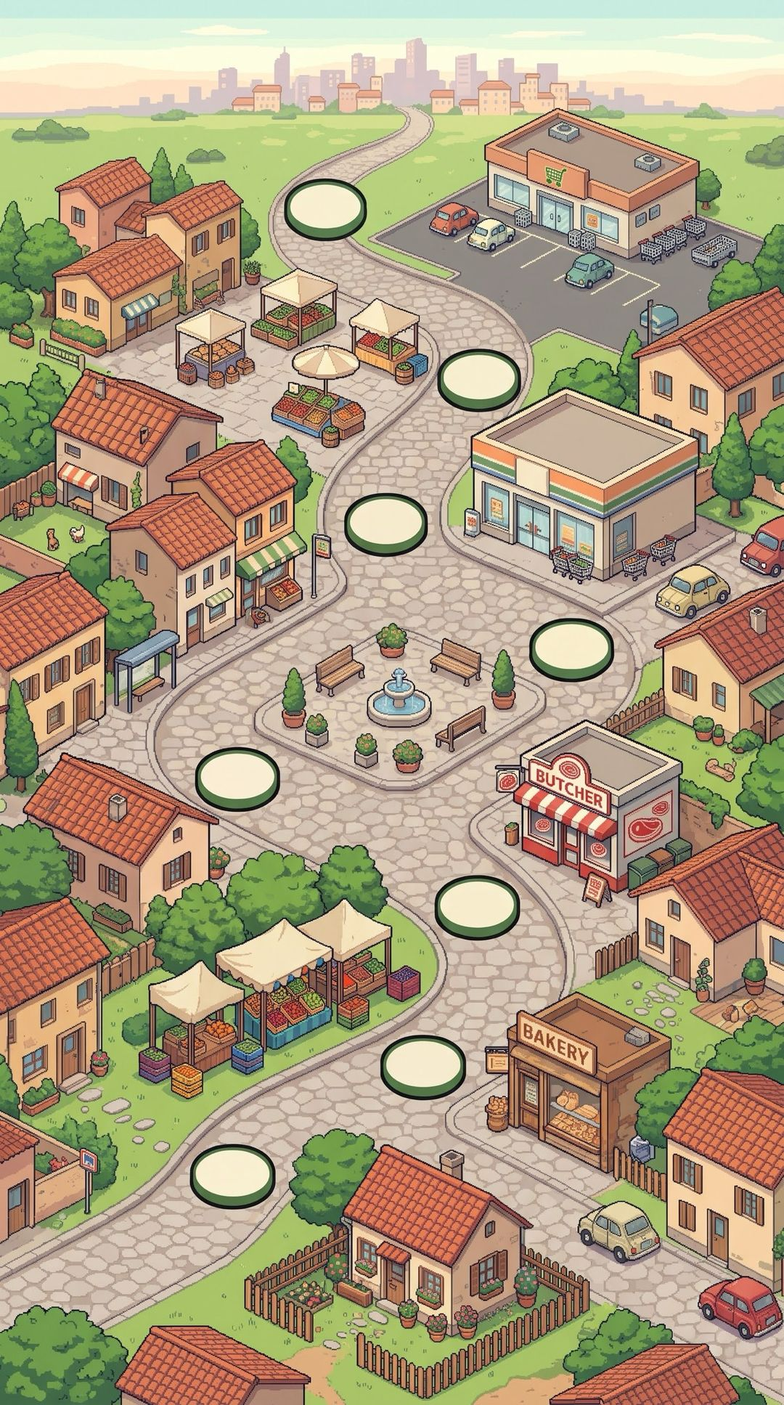
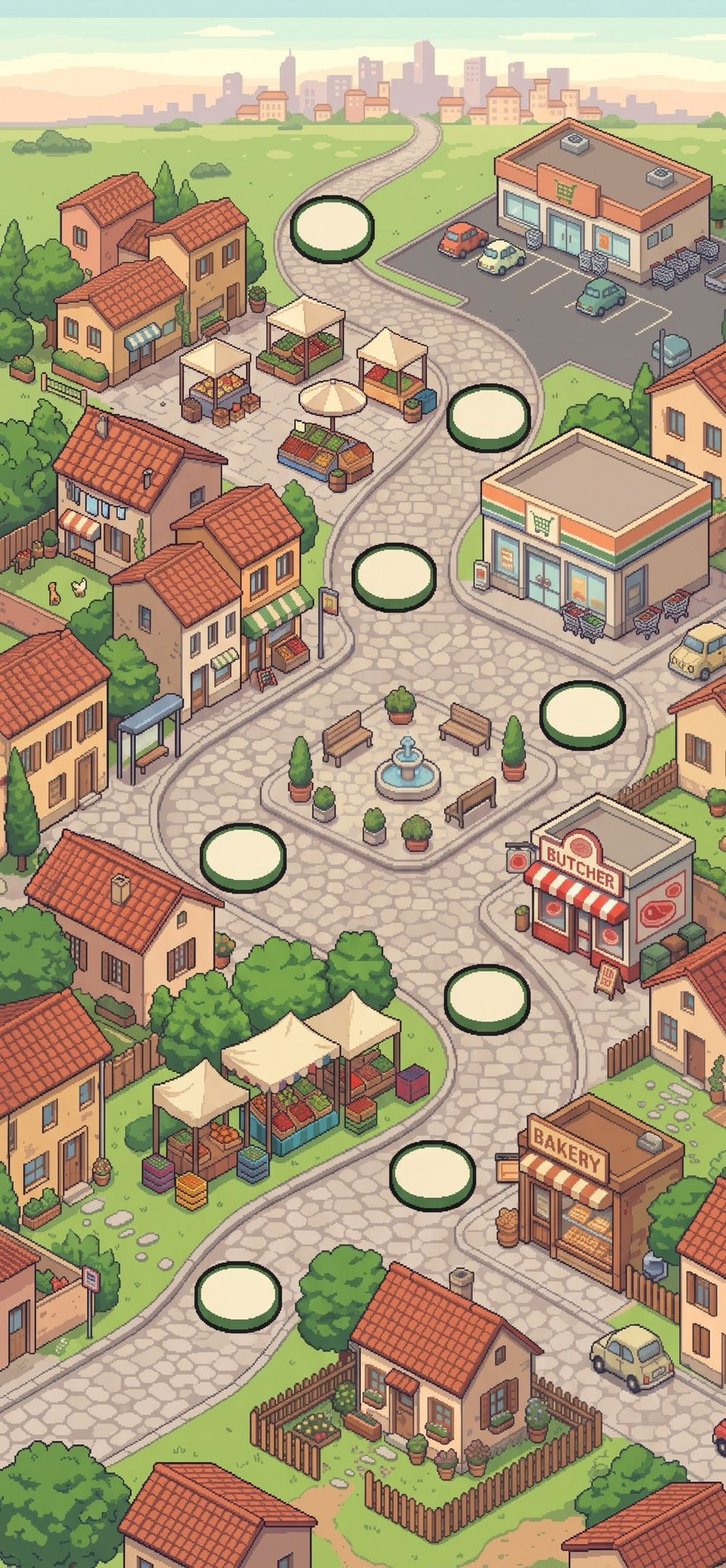
Mappa Piccola Città in formato telefono

diff --git a/nonna-moduli.html b/nonna-moduli.html
@@ -26,8 +26,8 @@ canvas{position:fixed;inset:0;width:100%;height:100%}
 #mappa{position:fixed;inset:0;z-index:40;background:#9cc47a;overflow-y:auto;touch-action:pan-y}#mappa[hidden]{display:none}
 #mtop{position:sticky;top:0;z-index:2;display:flex;align-items:center;gap:10px;padding:8px 12px;background:var(--paper);border-bottom:4px solid var(--ink);color:var(--ink);font-size:22px}
 #mtop b{flex:1;color:var(--red)}#mtop span{color:#c88a00}#mtop button{font:20px "Gioco",monospace;border:3px solid var(--ink);border-radius:5px;background:#fff;color:var(--ink)}
-#mbox{position:relative;width:min(100vw,520px);aspect-ratio:1438/2576;margin:0 auto;background:url(mappa-citta1.jpg) center/100% 100%}
-.nodo{position:absolute;transform:translate(-50%,-50%);width:10%;aspect-ratio:1.6;border:0;border-radius:50%;background:none;color:var(--ink);font:800 26px "Gioco",monospace;padding:0} /* il cerchio è nel disegno: il pulsante è trasparente sopra */
+#mbox{position:relative;width:min(100vw,520px);aspect-ratio:1193/2576;margin:0 auto;background:url(mappa-citta1.jpg?v=2) center/100% 100%}
+.nodo{position:absolute;transform:translate(-50%,-50%);width:11.5%;aspect-ratio:1.5;border:0;border-radius:50%;background:none;color:var(--ink);font:800 26px "Gioco",monospace;padding:0} /* il cerchio è nel disegno: il pulsante è trasparente sopra */
 .nodo.chiuso{background:rgba(70,86,76,.6);font-size:16px}.nodo.qui{box-shadow:0 0 0 4px #ffc400,0 0 16px 6px #ffe680;animation:pulsa .7s infinite alternate}@keyframes pulsa{to{transform:translate(-50%,-50%) scale(1.12)}}
 .nodo b{position:absolute;top:100%;left:50%;transform:translateX(-50%);margin-top:4px;font-size:18px;line-height:1.1;color:#ffc400;white-space:nowrap;background:rgba(28,58,36,.8);border-radius:8px;padding:0 5px}
 #mnonna{position:absolute;width:58px;transform:translate(-50%,-125%);border-radius:50%;border:3px solid var(--ink);pointer-events:none}
@@ -678,7 +678,7 @@ function render(now){
     ctx.strokeStyle='rgba(255,0,255,.5)';ctx.lineWidth=2;NODES.forEach((a,i)=>ADJ[i].forEach(j=>{if(j>i){ctx.beginPath();ctx.moveTo(...a);ctx.lineTo(...NODES[j]);ctx.stroke()}}))}
 }
 // CARICAMENTO: controlla se su internet c'è una versione nuova (VER più alto) e intanto carica immagini e font. Ogni cosa pronta = un pezzo di barra.
-const VER=52; // ponytail: alzare a ogni pubblicazione, sennò il telefono non sa che c'è una versione nuova
+const VER=53; // ponytail: alzare a ogni pubblicazione, sennò il telefono non sa che c'è una versione nuova
 const checkUpd=()=>Promise.race([new Promise(r=>setTimeout(r,3000)),fetch(location.pathname+'?nv='+Date.now(),{cache:'no-store'}).then(r=>r.text()).then(t=>{
   const v=+(t.match(/const VER=(\d+)/)||[])[1];if(v>VER&&!location.search.includes('v='+v)){$('loadTxt').textContent='Versione nuova! La scarico…';location.replace(location.pathname+'?v='+v+location.hash);return new Promise(()=>{})}
   $('loadTxt').textContent='Gioco aggiornato ✓'})]).catch(()=>{}); // nell'Artifact il controllo non funziona: si va avanti
@@ -704,7 +704,7 @@ $('menu').addEventListener('pointerdown',e=>{e.stopPropagation();const b=e.targe
   else if(b.dataset.l){const v=readSlot(b.dataset.l);if(v){LV=v.lv;saveLV();STARS=v.stars||Array(v.lv).fill(1);saveStars();$('menu').hidden=true;showMap();beep(660);return}}
   drawMenu()});
 // ---------- MAPPA: piccola città, 8 nodi = livelli 1-8. Un nodo si apre quando il precedente ha almeno una stella.
-const CITY={name:'PICCOLA CITTÀ',first:0,nodes:[[29.7,83.5],[53.9,75.7],[60.8,64.4],[30.3,55.2],[72.8,45.9],[49.2,37.1],[61.1,26.8],[41.4,14.7]]};
+const CITY={name:'PICCOLA CITTÀ',first:0,nodes:[[32.8,82.5],[59.6,74.8],[67.4,63.5],[33.5,54.5],[80.2,45.4],[54.3,36.6],[67.3,26.4],[45.7,14.4]]};
 const ALL=/lv=/.test(location.hash); // col link #lv=N tutto aperto, per provare
 function showMap(){if(G)G.state='title';$('bil').hidden=$('over').hidden=$('home').hidden=$('menu').hidden=true;$('mappa').hidden=false;
   const N=CITY.nodes,open=k=>ALL||k===0||(STARS[CITY.first+k-1]||0)>0,qui=Math.max(0,N.findIndex((p,k)=>open(k)&&!STARS[CITY.first+k])),[qx,qy]=N[qui<0?N.length-1:qui];
